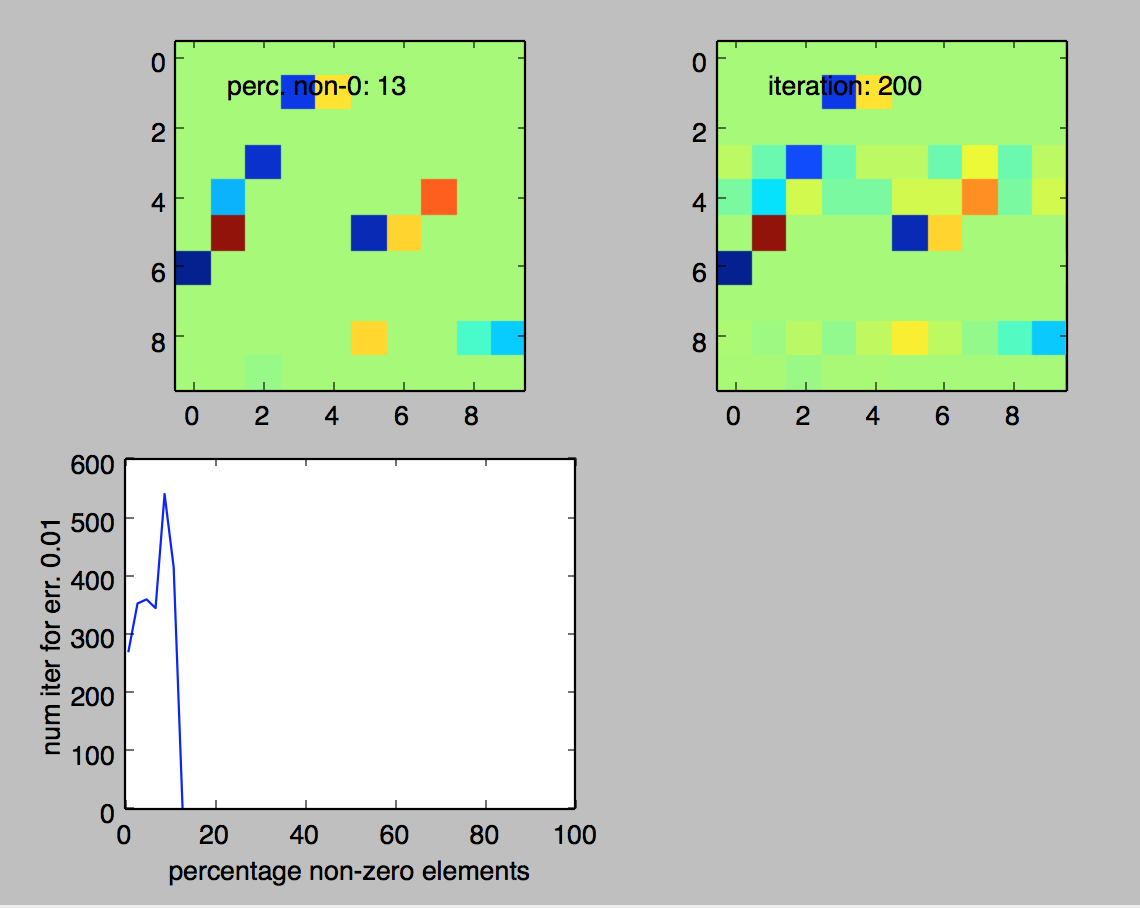
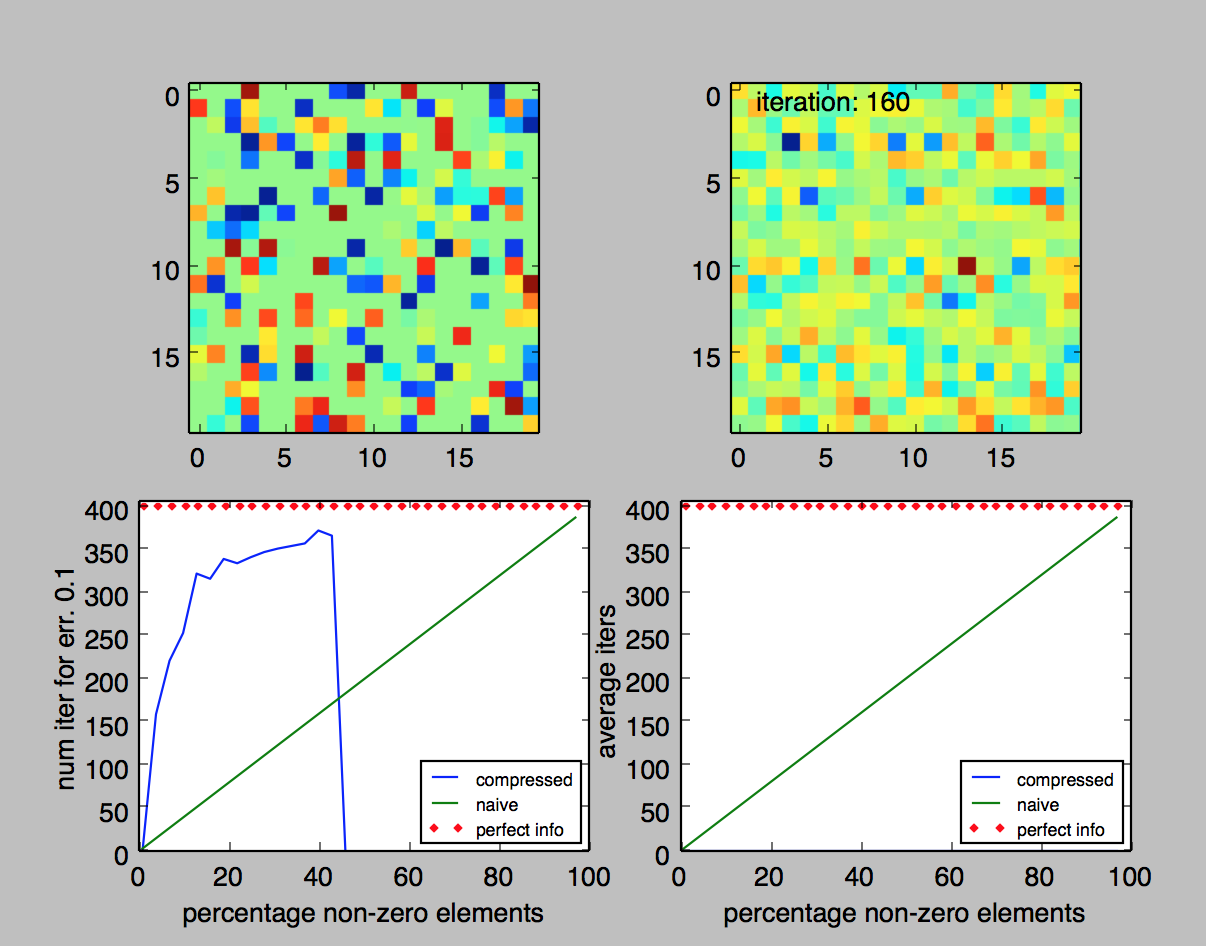
expanded

diff --git a/CompressedSensing.py b/CompressedSensing.py
@@ -4,10 +4,19 @@ import numpy as np
 from numpy.random import randint, random
 import pylab as pl
 
-N = 10
-ERROR_MIN = 1e-2
+
+'''
+Sorry this code is so messy
+I will clean it up soon
+'''
+
+
+N = 20
+ERROR_MIN = 1e-1
 PERC_MAX = 100
-PERC_STEP = 2
+PERC_STEP = 3
+NUM_ITERS = 5
+NUM_FRAMES = 10
 
 def f(A,B):
     #relative error in frobenius norm
@@ -36,70 +45,117 @@ def constructSparseMatrix(i):
                 i = randint(N)
                 j = randint(N)
     return A
-         
     
-def main():
-    count = 0
-    
-    percSampled = []
-    perc = []
-    # for i = percentage of non-zero elements in matrix A
-    percRange = np.arange(1,PERC_MAX,PERC_STEP)
-    percSampled = np.zeros(len(percRange))
-    pl.ion()
+def calcAPriori(percRange):
+    a = []
     for p in percRange:
-        print "working on " + str(p) + " out of " + str(PERC_MAX)
-        
-        Sampled = np.zeros([N,N], int) #record of which indeces have been sampled
-        A = constructSparseMatrix(p)   #true matrix in sparse basis
-        B = dct(A, norm='ortho')       #true matrix in dense basis
-        Ap = np.zeros([N,N], float)    #sampled matrix in sparse basis
-        Bp = np.zeros([N,N], float)    #sampled matrix in dense basis
-        error = 1.0                    #starting error    
-        numSteps = 0                   #count of sampling iterations
-        #imshowM(A)
-        #imshowM(B)
-        ax3 = pl.subplot(2, 2, 3)
-        ax3.clear()
-        pl.xlabel("percentage non-zero elements")
-        pl.ylabel("num iter for err. " + str(ERROR_MIN))
+        a.append(p*N*N/100.0)
+    return a 
+   
+def calcNaive(percRange):
+    a = []
+    for p in percRange:
+        a.append(N*N)
+    return a
 
-        ax3.plot(percRange,percSampled)
-        #txt3 = ax3.text(1,1, 'iteration: ' + str(numSteps))
-        pl.draw()
+def newAverage(average, percSampled, n):
+    #calc running average given new data
+    if (n != 0):
+        for i in range(len(average)):
+            s = average[i] * (n - 1)
+            s += percSampled[i]
         
-        while (error > ERROR_MIN):
-            i = randint(N)                 
-            j = randint(N)
-            while True:
-                #make sure this spot has not been sampled (can remove as condition later to test in practice)
-                if (Sampled[i][j] == 1):
-                    i = randint(N)
-                    j = randint(N)
-                else:
-                    Bp[i][j] = B[i][j]            #sample the true dense matrix
-                    Ap = idct(Bp, norm='ortho')    #get the sparse matrix guess from the sampled dense matrix
+            average[i] = s/n
+    return average
+        
+    
+
+def main():
+    percRange = np.arange(1,PERC_MAX,PERC_STEP)
+    aPriori = calcAPriori(percRange)
+    naive = calcNaive(percRange)
+    percSampled = np.zeros(len(percRange))    
+    average = np.zeros(len(percRange), float)
+    for n in range(NUM_ITERS):
+        average = newAverage(average, percSampled, n)
+        count = 0
+    
+        percSampled = []
+        perc = []
+        # for i = percentage of non-zero elements in matrix A
+        aPriori = calcAPriori(percRange)
+        naive = calcNaive(percRange)
+        percSampled = np.zeros(len(percRange))
+        pl.ion()
+        
+        ax4 = pl.subplot(2, 2, 4)
+        ax4.clear()
+        pl.xlabel("percentage non-zero elements")
+        pl.ylabel("average iters ")
+        pl.ylim([0, N**2 + 5])
+        ax4.plot(percRange, average)
+        ax4.plot(percRange, aPriori, "g-")
+        ax4.plot(percRange, naive, "r.")
+        ax4.legend(['compressed','naive','perfect info'], loc=4, prop={'size':8})
+        
+        for p in percRange:
+        
+            print "working on " + str(p) + " out of " + str(PERC_MAX)
+        
+            Sampled = np.zeros([N,N], int) #record of which indeces have been sampled
+            A = constructSparseMatrix(p)   #true matrix in sparse basis
+            B = dct(A, norm='ortho')       #true matrix in dense basis
+            Ap = np.zeros([N,N], float)    #sampled matrix in sparse basis
+            Bp = np.zeros([N,N], float)    #sampled matrix in dense basis
+            error = 1.0                    #starting error    
+            numSteps = 0                   #count of sampling iterations
+            #imshowM(A)
+            #imshowM(B)
+            ax3 = pl.subplot(2, 2, 3)
+            ax3.clear()
+            pl.xlabel("percentage non-zero elements")
+            pl.ylabel("num iter for err. " + str(ERROR_MIN))
+            pl.ylim([0, N**2 + 5])
+            ax3.plot(percRange,percSampled)
+            ax3.plot(percRange, aPriori, "g-")
+            ax3.plot(percRange, naive, "r.")
+            ax3.legend(['compressed','naive','perfect info'], loc=4, prop={'size':8})
+        
+            #txt3 = ax3.text(1,1, 'iteration: ' + str(numSteps))
+            pl.draw()
+        
+            while (error > ERROR_MIN):
+                i = randint(N)                 
+                j = randint(N)
+                while True:
+                    #make sure this spot has not been sampled (can remove as condition later to test in practice)
+                    if (Sampled[i][j] == 1):
+                        i = randint(N)
+                        j = randint(N)
+                    else:
+                        Bp[i][j] = B[i][j]            #sample the true dense matrix
+                        Sampled[i][j] = 1
+                        Ap = idct(Bp, norm='ortho')    #get the sparse matrix guess from the sampled dense matrix
                     
-                    if numSteps%100 == 0:
+                        if numSteps%(N*N/NUM_FRAMES) == 0:
                         
-                        ax2 = pl.subplot(2, 2, 2)
-                        ax2.imshow(Ap, interpolation="nearest")
-                        txt2 = ax2.text(1,1, 'iteration: ' + str(numSteps))
-                        pl.draw()
-                        ax1 = pl.subplot(2, 2, 1)
-                        txt1 = ax1.text(1,1, 'perc. non-0: ' + str(p))
-                        ax1.imshow(A, interpolation="nearest")
-                        pl.draw()
-                        txt2.remove()
-                        txt1.remove()
+                            ax2 = pl.subplot(2, 2, 2)
+                            ax2.imshow(Ap, interpolation="nearest")
+                            txt2 = ax2.text(1,1, 'iteration: ' + str(numSteps))
+                            pl.draw()
+                            ax1 = pl.subplot(2, 2, 1)
+                            txt1 = ax1.text(1,1, 'perc. non-0: ' + str(p))
+                            ax1.imshow(A, interpolation="nearest")
+                            pl.draw()
+                            txt2.remove()
+                            txt1.remove()
                         
-                    error = f(Ap,A)               #error of sparse matrix calculated
-                    numSteps += 1                 #update the number of counts
-                    break
-        percSampled[count] = numSteps
-        perc.append(p)
-        count += 1
-                
+                        error = f(Ap,A)               #error of sparse matrix calculated
+                        break
+                numSteps += 1                 #update the number of counts
+            percSampled[count] = numSteps
+            perc.append(p)
+            count += 1
                 
                 
                 
